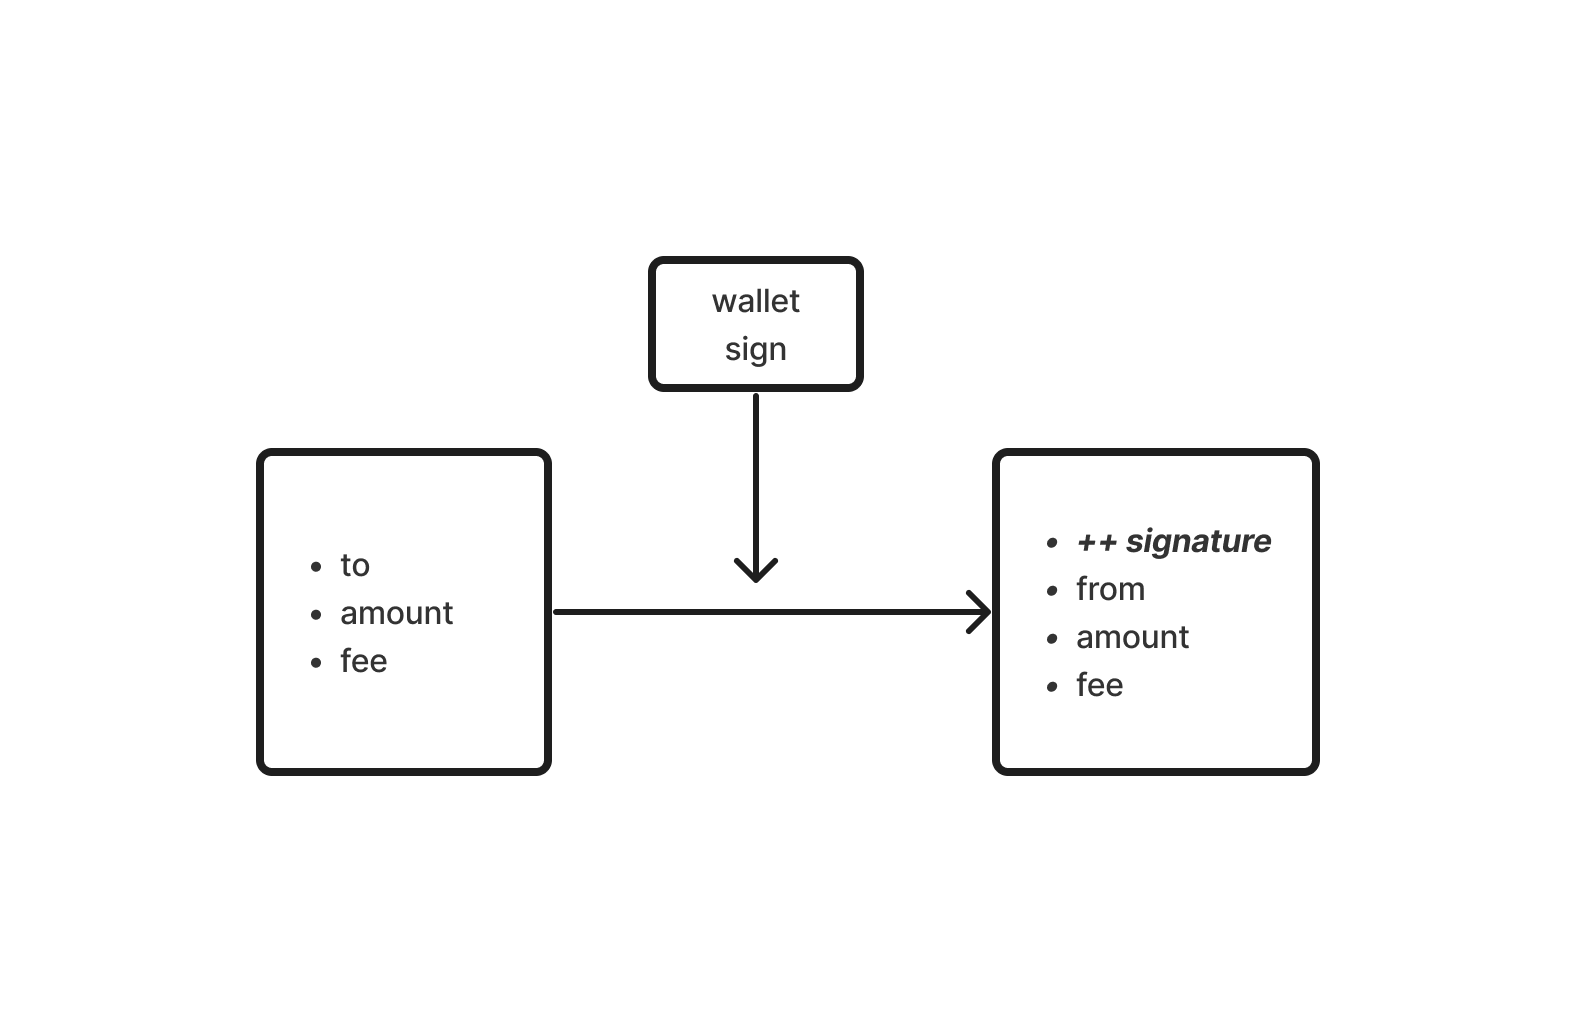
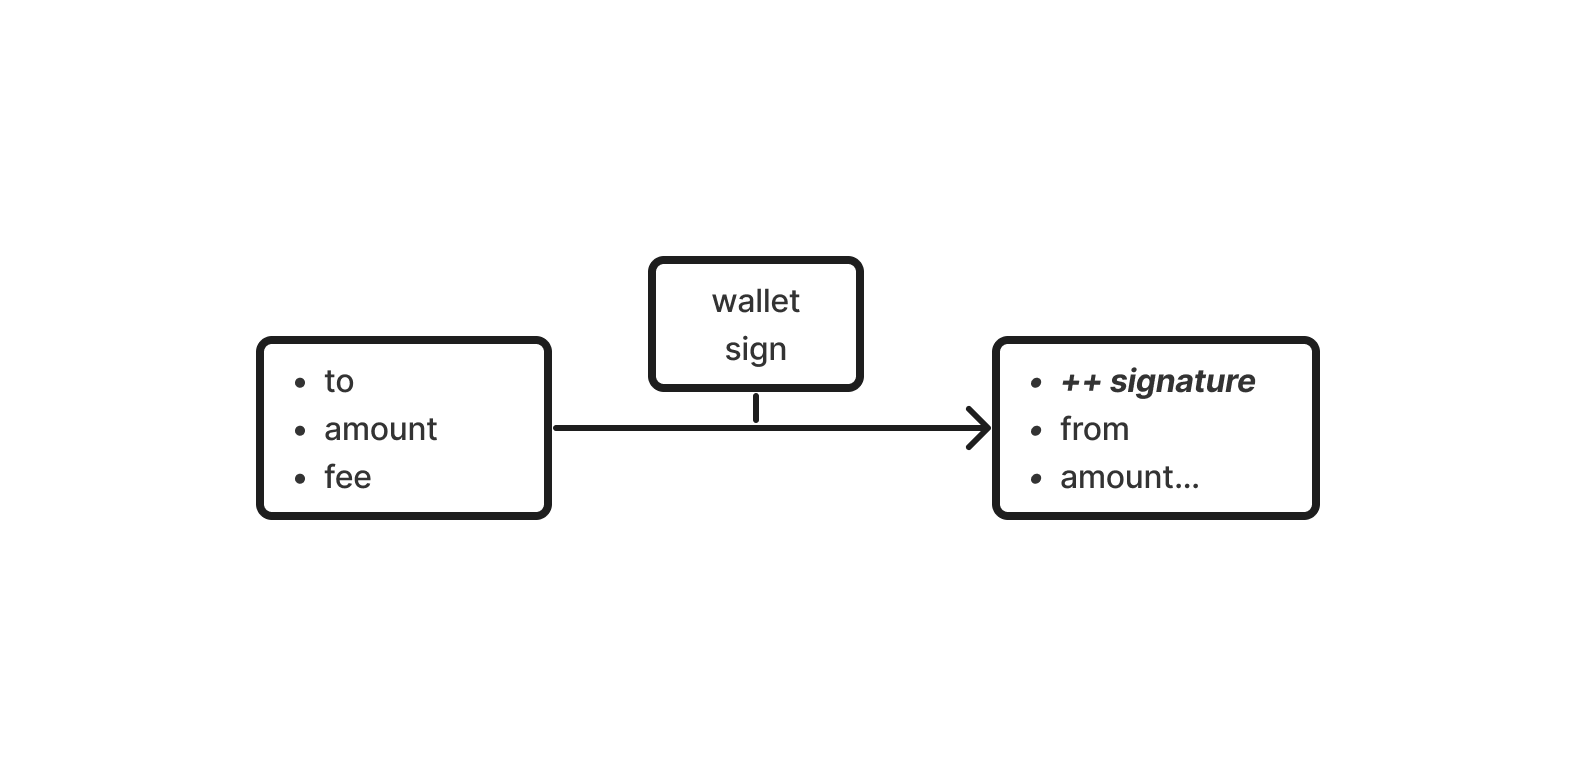
update: aula 1

Changed region(s): [[0.342, 0.2474, 0.8395, 0.7732], [0.1555, 0.5258, 0.3731, 0.7732], [0.1865, 0.433, 0.342, 0.4948]]

diff --git a/module1/aula1/a.md b/module1/aula1/a.md
@@ -1,0 +1,39 @@
+---
+marp: true
+style: |
+  section {
+    background-color: #fdf6e3; /* Cor de fundo do Gaia */
+    color: #002b36; /* Cor das letras do Gaia */
+    font-size: 25px; /* Tamanho da fonte */
+    position: relative;
+    padding-top: 0px; /* Adiciona espaçamento ao topo do slide */
+  }
+  .wallet img {
+    position: absolute;
+    bottom: -50px;
+    left: 50%;
+    transform: translateX(-50%);
+    width: 100%;
+    z-index: -1;
+    background-color: #fdf6e3; /* Cor de fundo do slide */
+    width: 100%; /* Faz a imagem ocupar toda a largura */
+  }
+---
+
+# Slide 1
+
+- Definição: O que são wallets.
+- Tipos de Wallets: Hardware, software, paper, etc.
+- Com funcionam:
+
+  1. Criar Seed
+  2. Transformar Seed em PrivateKey
+  3. Calcular PublicKey pela PrivateKey
+  4. Resumir a PublicKey em um Address (opcional)
+
+<div class="wallet">
+  <img
+    src="./wallet.png"
+    alt="bottom-image"
+  >
+</div>

diff --git a/module1/aula1/README.md b/module1/aula1/README.md
@@ -1,21 +1,9 @@
----
-marp: true
-theme: gaia
-paginations: true
----
-
-<style>
-  section {
-    font-size: 25px;
-  }
-</style>
-
 # Template de Estudo de Blockchains
 
 1. Low-level
 2. High-level
 
----
+
 
 ## Low-level
 
@@ -37,7 +25,7 @@ paginations: true
   3. Calcular PublicKey pela PrivateKey
   4. Resumir a PublicKey em um Address (opcional)
 
-![wallet](wallet.png)
+![wallet](./wallet.png)
 
 ---
 
@@ -52,7 +40,7 @@ paginations: true
   4. Assinar Tx
   5. Enviar para o Node
 
-![tx](tx.png)
+![tx](./tx.png)
 
 ---
 
@@ -102,10 +90,9 @@ paginations: true
 
 ![smartcontracs](./smartcontracts.png)
 
----
 
-## High-level
 
+## High-level 
 ### Comparação com CRUD
 
 - Banco de dados
@@ -160,13 +147,13 @@ paginations: true
 
 ![route](./route.png)
 
----
+
 
 ## Resumo da Aula
 
 - low-level
 - high-level
 
----
+
 
 ## Próxima aula: Noções Históricas
